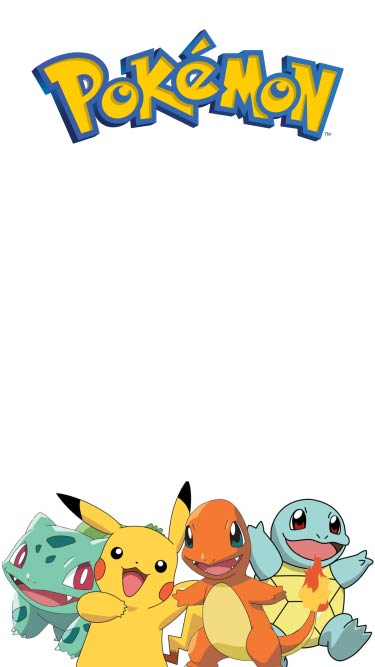
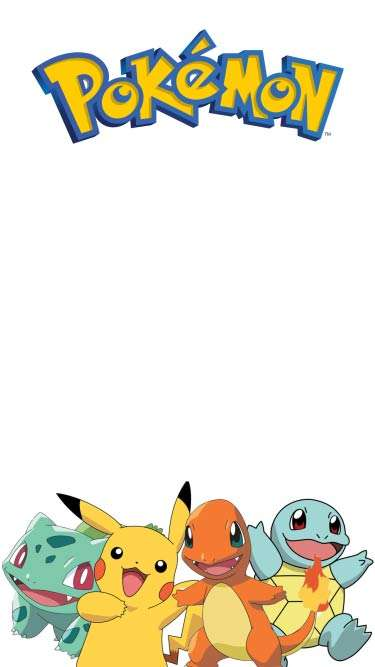
background image

diff --git a/App.js b/App.js
@@ -1,5 +1,5 @@
 import React from 'react';
-import { Text, View, Platform } from 'react-native';
+import { Text, View, Platform, ImageBackground } from 'react-native';
 import { Button } from 'native-base';
 
 // export default function App() {
@@ -9,13 +9,18 @@ import { Button } from 'native-base';
 //     </View>
 //   );
 // }
+
+let myBackground = require('./assets/landing.jpg');
+
 export default class App extends React.Component {
 
   render() {
     return (
       <View style={styles.container}>
-        <Text>Open up App.js to start working on your app!</Text>
-        <Button><Text>   Hello World   </Text></Button>
+        <ImageBackground source={myBackground} style={{height: '100%', width: '100%'}}>
+          <Text>Open up App.js to start working on your app!</Text>
+          <Button><Text>   Hello World   </Text></Button>
+        </ImageBackground>
       </View>
     );
   }
